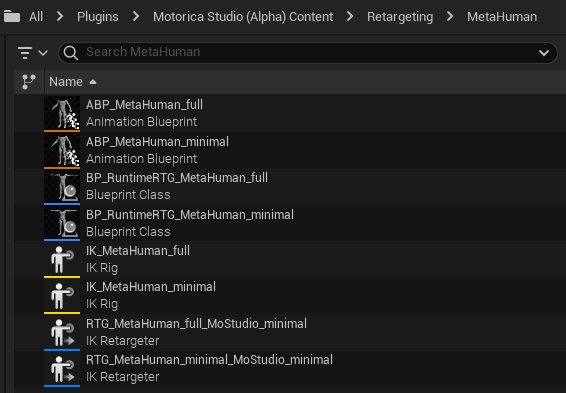
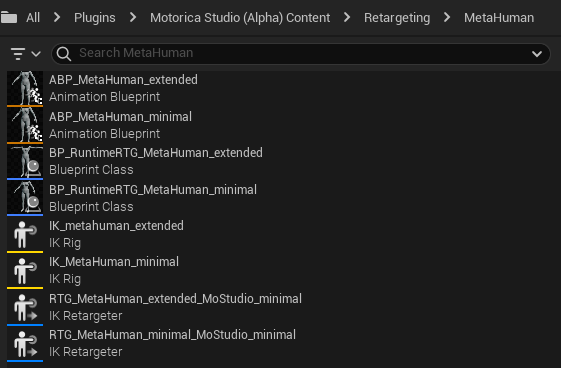
Update docs

Changed region(s): [[0.0, 0.1196, 0.6039, 0.9864], [0.9361, 0.0, 1.0, 1.0], [0.0, 0.0299, 0.9663, 0.0598]]

diff --git a/docs/user-guide/retargeting.md b/docs/user-guide/retargeting.md
@@ -1,8 +1,57 @@
 # Retargeting
-Motorica studio supplies [retargeting assets](../included-assets/#retargeting) that you can use for retargeting. Unfortunately, detailed information about using these assets to retarget Motorica animations is unavailable.
-
-For now, plaese familiarize yourself with the supplied [retargeting assets](../included-assets/#retargeting), and check out the following YouTube tutorials:
+Motorica Studio ships with assets that you can use for retargeting. While an explanation of these assets is provided [below](./#assets), a tutorial on how to use them is currently missing. Please have a look at these YouTube tutorials instead:
 
 - [Motorica - Generative AI for animation - Unreal](https://www.youtube.com/watch?v=-UY5rom6LGE)
 - [Motorica - Generative AI for animation - Plugin Unreal](https://www.youtube.com/watch?v=3qmHzPH06O4)
 - [Motorica a Metahuman con Mixamo Animation Retargeting 2](https://www.youtube.com/watch?v=R5euNHUcUec&t)
+
+## Assets
+The plugin includes assets that you can use to retarget Motorica animations onto other characters. **These assets are intended for use in UE 5.1 and above** as we experienced issues with retargeting in UE 5.0 (partially discussed [here](https://forums.unrealengine.com/t/retargeting-root-bone-ue5/506512) and [here](https://forums.unrealengine.com/t/ue5-retargeted-root-motion-animations-have-innacurate-pelvis-hip-placement/514656)).
+
+To view these assets, enable "Show Plugin Content" in the Content Browser settings.
+
+![](../images/content-browser-settings-show-plugin-content.png)
+
+And navigate to `Plugins > Motorica Studio > Content`.
+
+![](../images/content-browser-folder-plugin.png)
+
+Note: The folder names may be different depending on the plugin version you are using.
+
+### Retargeting folder
+
+![](../images/content-browser-folder-plugin-retargeting.png)
+
+- **BP_RuntimeRTG_Base** - A spawnable `Actor Blueprint` that sets up runtime retargeting between the Motorica skeleton and other skeletons. This blueprint serves as a base which other blueprints extend.
+- **LS_RuntimeRTG** - A `Level Sequence` asset demonstrating runtime retargeting from the Motorica skeleton to a set of Mixamo skeletons and MetaHuman skeletons.
+
+#### MetaHuman
+![](../images/content-browser-folder-plugin-retargeting-metahuman.png)
+
+- **ABP_MetaHuman_extended** - `Animation Blueprint` used for runtime retargeting from the Motorica skeleton to the MetaHuman skeleton. It uses the `RTG_MetaHuman_extended_MoStudio_minimal` IK Retargeter asset.
+- **ABP_MetaHuman_minimal** - `Animation Blueprint` used for runtime retargeting from the Motorica skeleton to the MetaHuman skeleton. It uses the `RTG_MetaHuman_minimal_MoStudio_minimal` IK Retargeter asset.
+- **BP_RuntimeRTG_MetaHuman_extended** - A spawnable `Actor Blueprint` that extends from `BP_RuntimeRTG_Base`. It sets up runtime retargeting from the Motorica skeleton to the MetaHuman skeleton using `ABP_MetaHuman_extended`.
+- **BP_RuntimeRTG_MetaHuman_minimal** - A spawnable `Actor Blueprint` that extends from `BP_RuntimeRTG_Base`. It sets up runtime retargeting from the Motorica skeleton to the MetaHuman skeleton using `ABP_MetaHuman_minimal`.
+- **IK_MetaHuman_extended** - `IK Rig` asset that configures the default MetaHuman skeleton for retargeting. It contains bone chains for the spine, legs, arms, head, root, and fingers. This is a slightly modified copy of the original MetaHuman IK Rig.
+- **IK_MetaHuman_minimal** - `IK Rig` asset that configures the default MetaHuman skeleton for retargeting. It contains bone chains for the spine, legs, arms, head and root, excluding fingers.
+- **RTG_MetaHuman_extended_MoStudio_minimal** - `IK Retargeter` asset that retargets from the `IK_MoStudio_minimal` IK Rig to the `IK_MetaHuman_extended` IK Rig. The source skeleton was adjusted to match the A-pose of the target skeleton. IK goals are disabled.
+- **RTG_MetaHuman_minimal_MoStudio_minimal** - `IK Retargeter` asset that retargets from the `IK_MoStudio_minimal` IK Rig to the `IK_MetaHuman_minimal` IK Rig. The source skeleton was adjusted to match the A-pose of the target skeleton.
+
+#### Mixamo
+![](../images/content-browser-folder-plugin-retargeting-mixamo-mutant.png)
+
+All Mixamo characters share similar assets. The following assets are for the *Mixamo Mutant* character:
+
+- **ABP_Mixamo_Mutant** - `Animation Blueprint` used for runtime retargeting from the Motorica skeleton to the Mixamo Mutant skeleton. It uses the `RTG_Mixamo_Mutant` IK Retargeter asset.
+- **BP_RuntimeRTG_Mixamo_Mutant** - A spawnable `Actor Blueprint` that extends from `BP_RuntimeRTG_Base`. It sets up runtime retargeting from the Motorica skeleton to the Mixamo Mutant skeleton using `ABP_Mixamo_Mutant`.
+- **IK_Mixamo_Mutant** - `IK Rig` asset that configures the Mixamo Mutant skeleton for retargeting. It contains bone chains for the spine, legs, arms, head and root, excluding fingers.
+- **RTG_Mixamo_Mutant** - `IK Retargeter` asset that retargets from the `IK_MoStudio_minimal` IK Rig to the `IK_Mixamo_Mutant` IK Rig.
+
+#### MotoricaStudio
+![](../images/content-browser-folder-plugin-retargeting-motoricastudio.png)
+
+- **ABP_MoStudio_minimal** - `Animation Blueprint` used for runtime retargeting from the Motorica skeleton to itself. It uses the `RTG_MoStudio_minimal` IK Retargeter asset.
+- **BP_RuntimeRTG_MoStudio_minimal** - A spawnable `Actor Blueprint` that extends from `BP_RuntimeRTG_Base`. It sets up runtime retargeting from the Motorica skeleton to itself using `ABP_MoStudio_minimal`.
+- **IK_MoStudio_legacy** - This is the legacy `IK Rig` asset that was provided in *Motorica Studio v0.1.0*. It is included for compatibility purposes. The recommendation is to use `IK_MoStudio_minimal` instead. If you are using the old `IK_Motorica` IK Rig, you should update the references to this asset.
+- **IK_MoStudio_minimal** - `IK Rig` asset that configures the Motorica skeleton for retargeting. It contains bone chains for the spine, legs, arms, head and root, excluding fingers. This asset is commonly used in `IK Retargeter` assets as the retargeting *source*.
+- **RTG_MoStudio_minimal** - `IK Retargeter` asset that retargets from the `IK_MoStudio_minimal` IK Rig to itself. This is mainly used for debugging purposes.

diff --git a/docs/user-guide/included-assets.md b/docs/user-guide/included-assets.md
@@ -9,9 +9,7 @@ And navigate to `Plugins > Motorica Studio > Content`.
 
 ![](../images/content-browser-folder-plugin.png)
 
-![](../images/content-browser-folder-plugin-content.png)
-
-Note: The folder names may differ depending on the plugin version you are using.
+Note: The folder names may be different depending on the plugin version you are using.
 
 ## Animations
 ![](../images/content-browser-folder-plugin-animations.png)
@@ -52,43 +50,4 @@ The Motorica Studio editor can load other levels besides the prototype one. To l
 ![](../images/load-custom-level.png)
 
 ## Retargeting
-For a walkthrough on how to use the assets below to retarget Motorica animations, please refer to [Retargeting](../retargeting) docs page.
-
-![](../images/content-browser-folder-plugin-retargeting.png)
-
-A collection of assets that can be used to retarget animations from the Motorica skeleton to other skeletons. The folder contains the following assets:
-
-- **ABP_Switchable** - `Animation Blueprint` used for runtime retargeting from the Motorica skeleton to other skeletons. It is possible to switch the target skeleton via a variable named `IKRetargeterAsset`.
-- **BP_RuntimeRTG_Base** - A spawnable `Actor Blueprint` that sets up runtime retargeting between the Motorica skeleton and other skeletons. This blueprint serves as a base which other blueprints extend.
-- **BP_RuntimeRTG_Switchable** - A spawnable `Actor Blueprint` that sets up runtime retargeting between the Motorica skeleton and other skeletons. This blueprint allows the switching of the target skeleton via the functions `SetIKRetargeterAsset` and `SetTargetMesh`.
-- **LS_RuntimeRTG** - A `Level Sequence` asset demonstrating runtime retargeting from the Motorica skeleton to a set of Mixamo skeletons and MetaHuman skeletons.
-- **LS_RuntimeRTG_Switchable** - A `Level Sequence` asset demonstrating runtime retargeting from the Motorica skeleton to a set of Mixamo skeletons of various sizes. The skeletons are switched by a Sequencer track during while the sequence plays.
-
-### MetaHuman
-![](../images/content-browser-folder-plugin-retargeting-metahuman.png)
-
-- **ABP_MetaHuman_full** - `Animation Blueprint` used for runtime retargeting from the "minimal" Motorica skeleton to the "full" MetaHuman skeleton. A similar blueprint exists for all other Mixamo characters. 
-- **ABP_MetaHuman_minimal** - `Animation Blueprint` used for runtime retargeting from the "minimal" Motorica skeleton to the "minimal" MetaHuman skeleton. A similar blueprint exists for all other Mixamo characters. 
-- **BP_RuntimeRTG_MetaHuman_full** - A spawnable `Actor Blueprint` that extends from `BP_RuntimeRTG_Base`. It sets up runtime retargeting between the "minimal" Motorica skeleton and the "full" MetaHuman skeleton.
-- **BP_RuntimeRTG_MetaHuman_minimal** - A spawnable `Actor Blueprint` that extends from `BP_RuntimeRTG_Base`. It sets up runtime retargeting between the "minimal" Motorica skeleton and the "minimal" MetaHuman skeleton.
-- **IK_MetaHuman_full** - `IK Rig` asset that sets up retargeting for the default MetaHuman skeleton. The asset contains bone chains for arms, legs, spine, head, root, and fingers.
-- **IK_MetaHuman_minimal** - `IK Rig` asset that sets up retargeting for the default MetaHuman skeleton. The asset contains bone chains for arms, legs, spine, head, root, excluding fingers.
-- **RTG_MetaHuman_full_MoStudio_minimal** - `IK Retargeter` asset that sets up retargeting from the Motorica skeleton to the MetaHuman skeleton. Bone chains from the "minimal" Motorica character IK Rig are mapped to bone chains from the "full" MetaHuman IK Rig.
-- **RTG_MetaHuman_minimal_MoStudio_minimal** - `IK Retargeter` asset that sets up retargeting from the Motorica skeleton to the MetaHuman skeleton. Bone chains from the "minimal" Motorica character IK Rig are mapped to bone chains from the "minimal" MetaHuman IK Rig.
-
-### Mixamo
-![](../images/content-browser-folder-plugin-retargeting-mixamo-mutant.png)
-
-These assets correspond to the Mixamo Mutant character. Other Mixamo characters also have similar assets:
-
-- **ABP_Mixamo_Mutant** - `Animation Blueprint` used for runtime retargeting from the Motorica skeleton to the Mixamo Mutant skeleton.
-- **BP_RuntimeRTG_Mixamo_Mutant** - A spawnable `Actor Blueprint` that extends from `BP_RuntimeRTG_Base`. It sets up runtime retargeting between the Motorica skeleton and the Mixamo Mutant skeleton.
-- **IK_Mixamo_Mutant** - `IK Rig` asset that sets up retargeting for the Mixamo Mutant skeleton. It contains a minimal bone map composed of the spine, arms, legs, head, and root of the character.
-- **RTG_Mixamo_Mutant** - `IK Retargeter` asset that sets up retargeting from the Motorica skeleton to the Mixamo Mutant skeleton. Bone chains from the Motorica character IK Rig are mapped to bone chains from the Mixamo Mutant IK Rig.
-
-### MotoricaStudio
-![](../images/content-browser-folder-plugin-retargeting-motoricastudio.png)
-
-- **IK_MoStudio_legacy** - This is the legacy `IK Rig` asset that was provided in Motorica Studio v0.1.0, and is included for compatibility reasons here. The recommendation now is to use `IK_MoStudio_minimal` instead. If you are using the old `IK_Motorica`, you should update the references to this asset.
-- **IK_MoStudio_minimal** - `IK Rig` asset that sets up skeleton retargeting for the Motorica skeleton. This setup is minimal as it excludes individual bones and finger bones. Only the spine, legs, arms, head, and root have bone chains. Use this asset inside an `IK Retargeter` asset and set it as the retargeting "source" to retarget from the Motorica skeleton to other skeletons.
-- **RTG_MoStudio_minimal** - `IK Retargeter` asset that retargets from the Motorica skeleton to itself. This is mainly used for debugging purposes.
+You can find an explanation of retargeting assets in the [Retargeting](../retargeting) docs page.

diff --git a/docs/user-guide/getting-started.md b/docs/user-guide/getting-started.md
@@ -1,0 +1,5 @@
+# Getting Started
+
+This website is a work-in-progress. Currently, it contains some useful information such as [assets](../included-assets) that are included in the plugin, and how to [retarget](../retargeting) Motorica animations.
+
+The original user guide is currently hosted on [Google Docs](https://docs.google.com/document/d/e/2PACX-1vSEqmBBs6cngvLE4BB4AVtasH601Gsfe5rLUPssLbWOacWo-mXegOY53pn8IZxsUS6O7KsMPtELplIy/pub). It contains information about installing and using the plugin.
